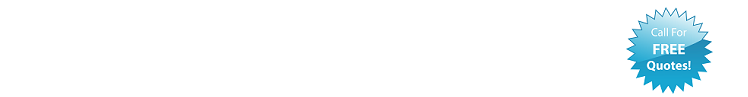
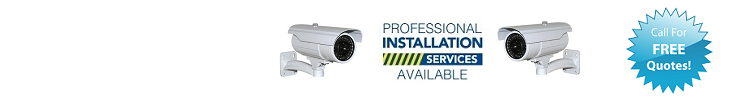
Live 3

Changed region(s): [[0.369, 0.2165, 0.7995, 0.8041], [0.5227, 0.7113, 0.6457, 0.8351]]

diff --git a/aboutus.html b/aboutus.html
@@ -45,11 +45,11 @@ http://www.templatemo.com/preview/templatemo_428_kool_store
                         <div class="logo">
                            <img src="images/lg.png" alt="">
 						 <!--<h1><a href="#">JAMAICA <br></a></h1> -->
-							<img src="images/flg.png" alt="">v
+							<img src="images/flg.png" alt="">
                         </div> <!-- /.logo -->
                     </div> <!-- /.col-md-4 -->
                     <div class="col-md-8 col-sm-6 col-xs-4">
-																	
+						<img src="images/call.png" alt="">											
                     </div> <!-- /.col-md-8 -->
                 </div> <!-- /.row -->
             </div> <!-- /.container -->

diff --git a/index.html b/index.html
@@ -152,9 +152,6 @@ http://www.templatemo.com/preview/templatemo_428_kool_store
                             <div class="item"> 
                             	<a href="#"><img src="images/install.jpg" alt=""></a>
                           	</div>
-							<div class="item"> 
-                            	<a href="#"><img src="images/pro.jpg" alt=""></a>
-                          	</div>
                             <div class="item">
                                 <a href="#"><img src="images/tm-170x80-1.jpg" alt=""></a>
                             </div>

diff --git a/products.html b/products.html
@@ -51,8 +51,11 @@ http://www.templatemo.com/preview/templatemo_428_kool_store
                     <div class="col-md-8 col-sm-6 col-xs-4">
 																	
                     </div> <!-- /.col-md-8 -->
+					<img src="images/call.png" alt="">
                 </div> <!-- /.row -->
             </div> <!-- /.container -->
+			
+			
         </div> <!-- /.main-header -->
         <div class="main-nav">
             <div class="container">
